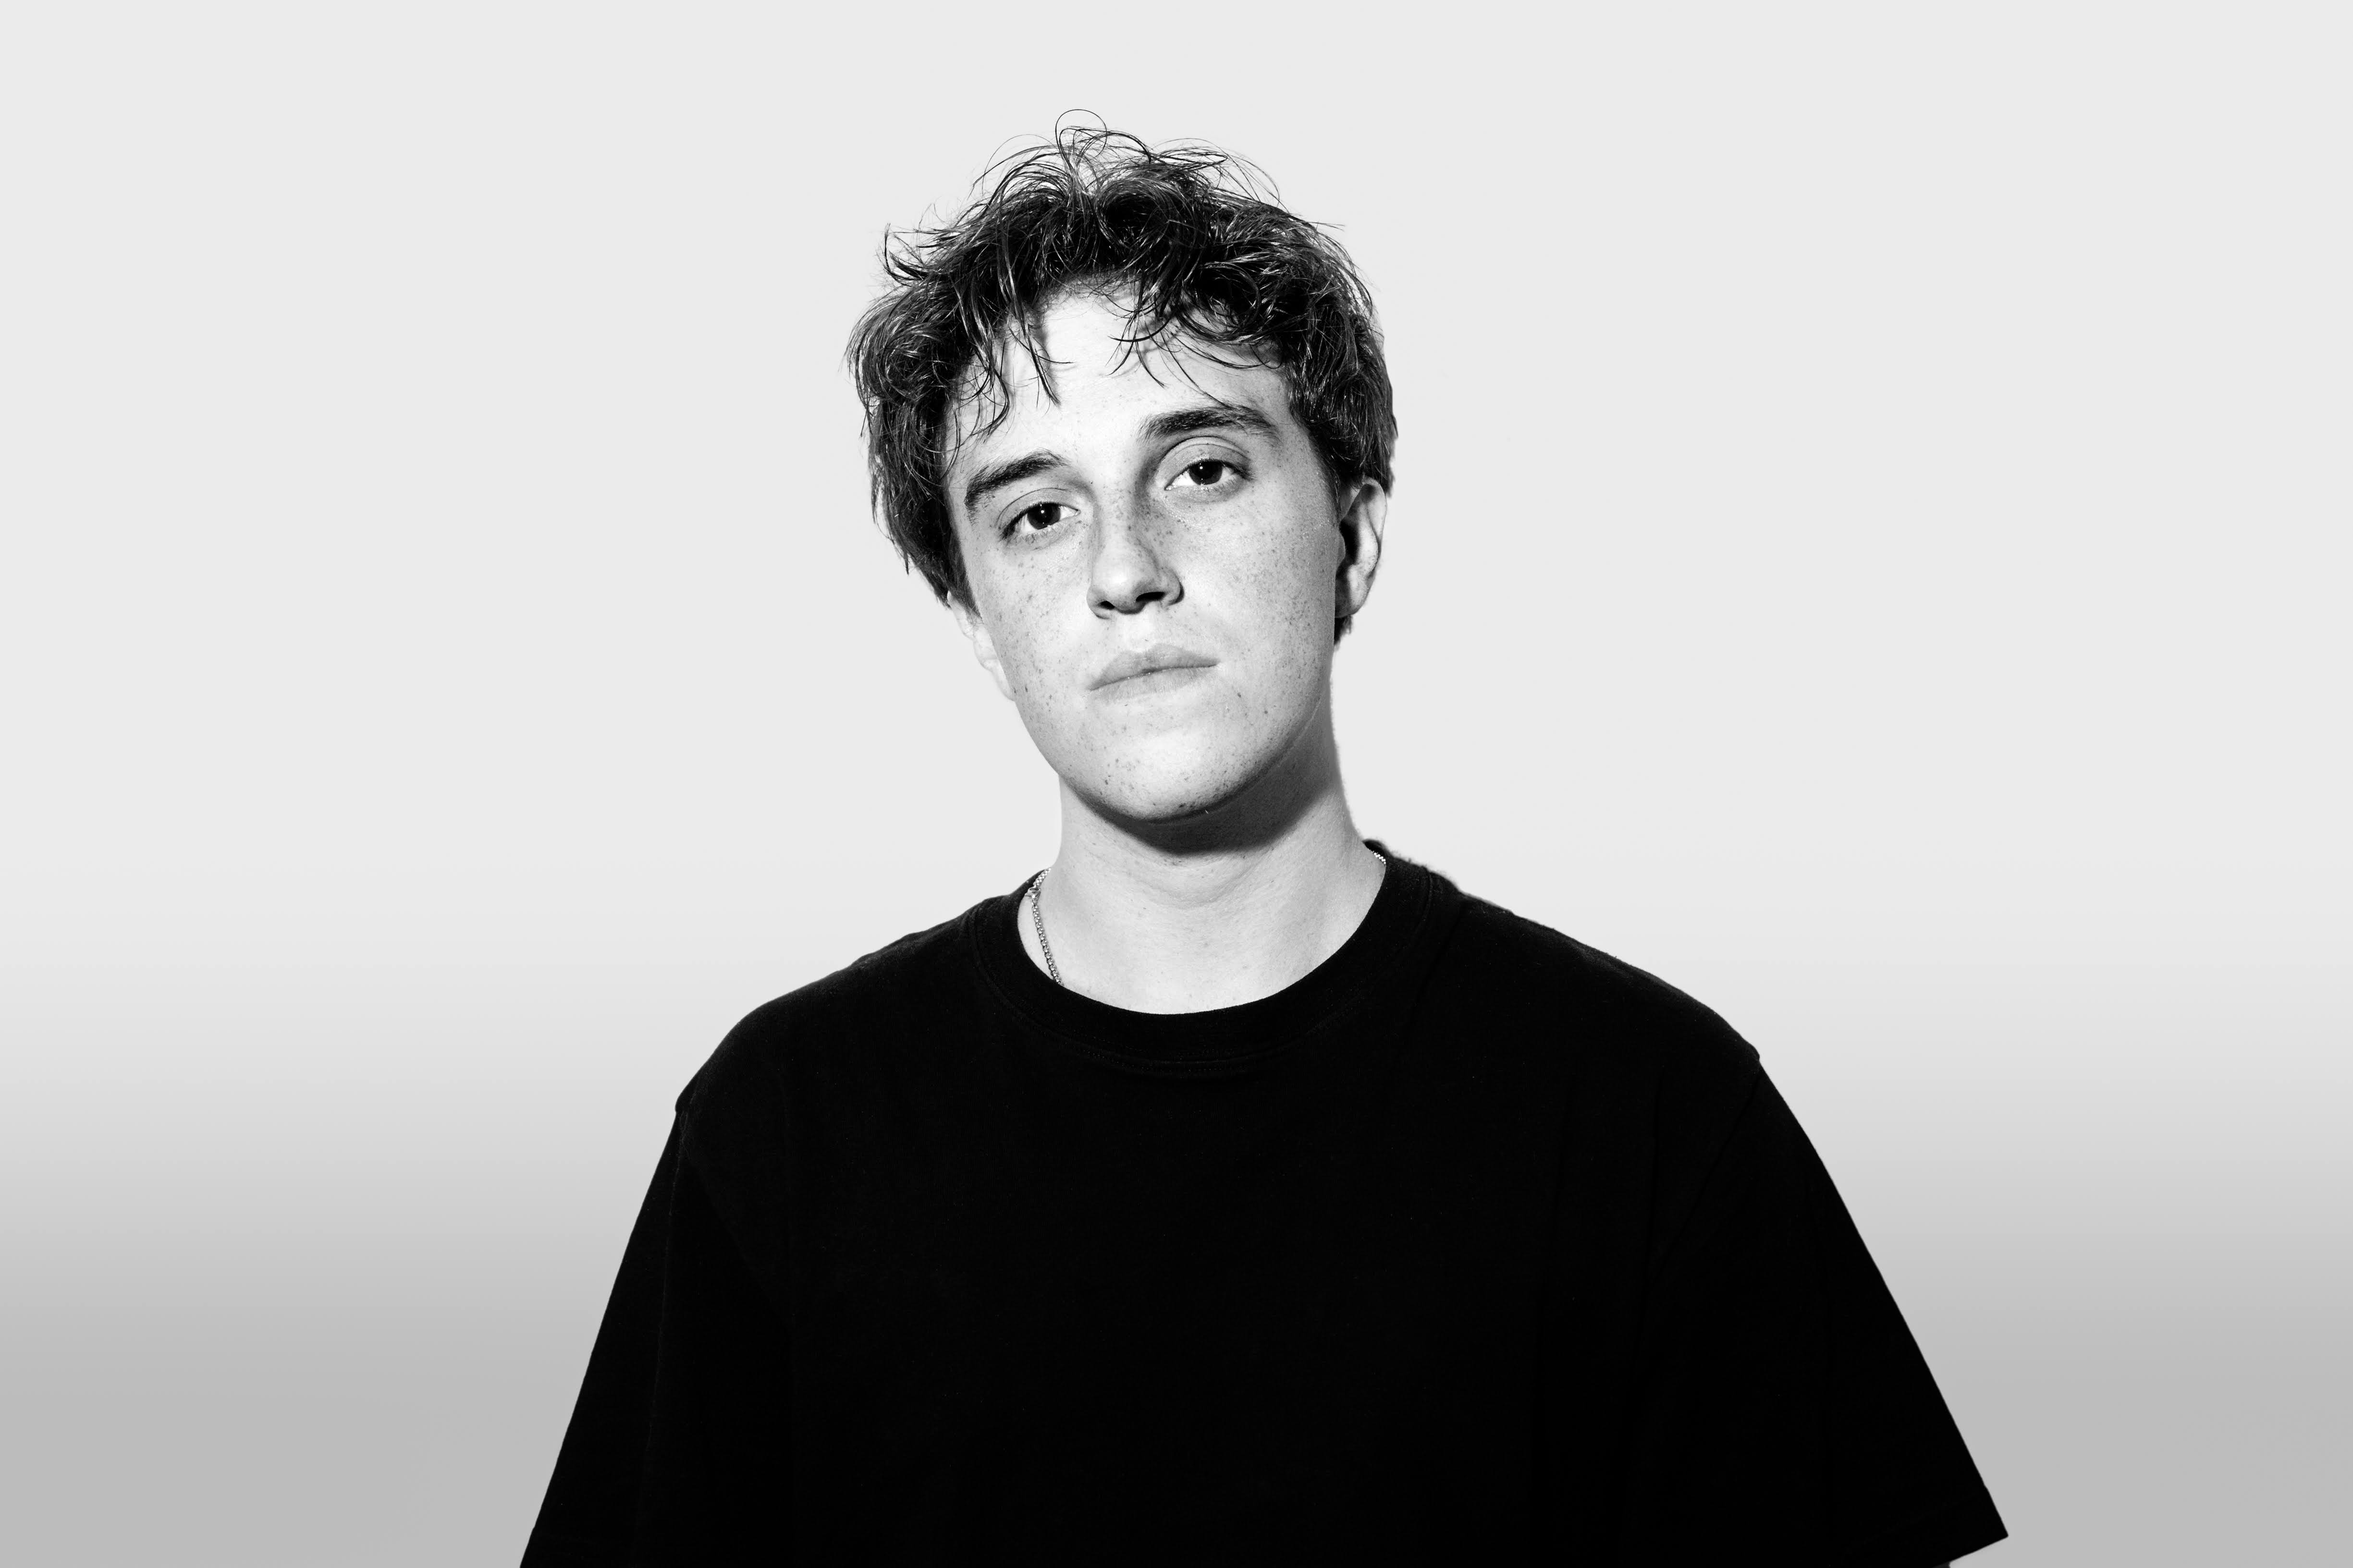
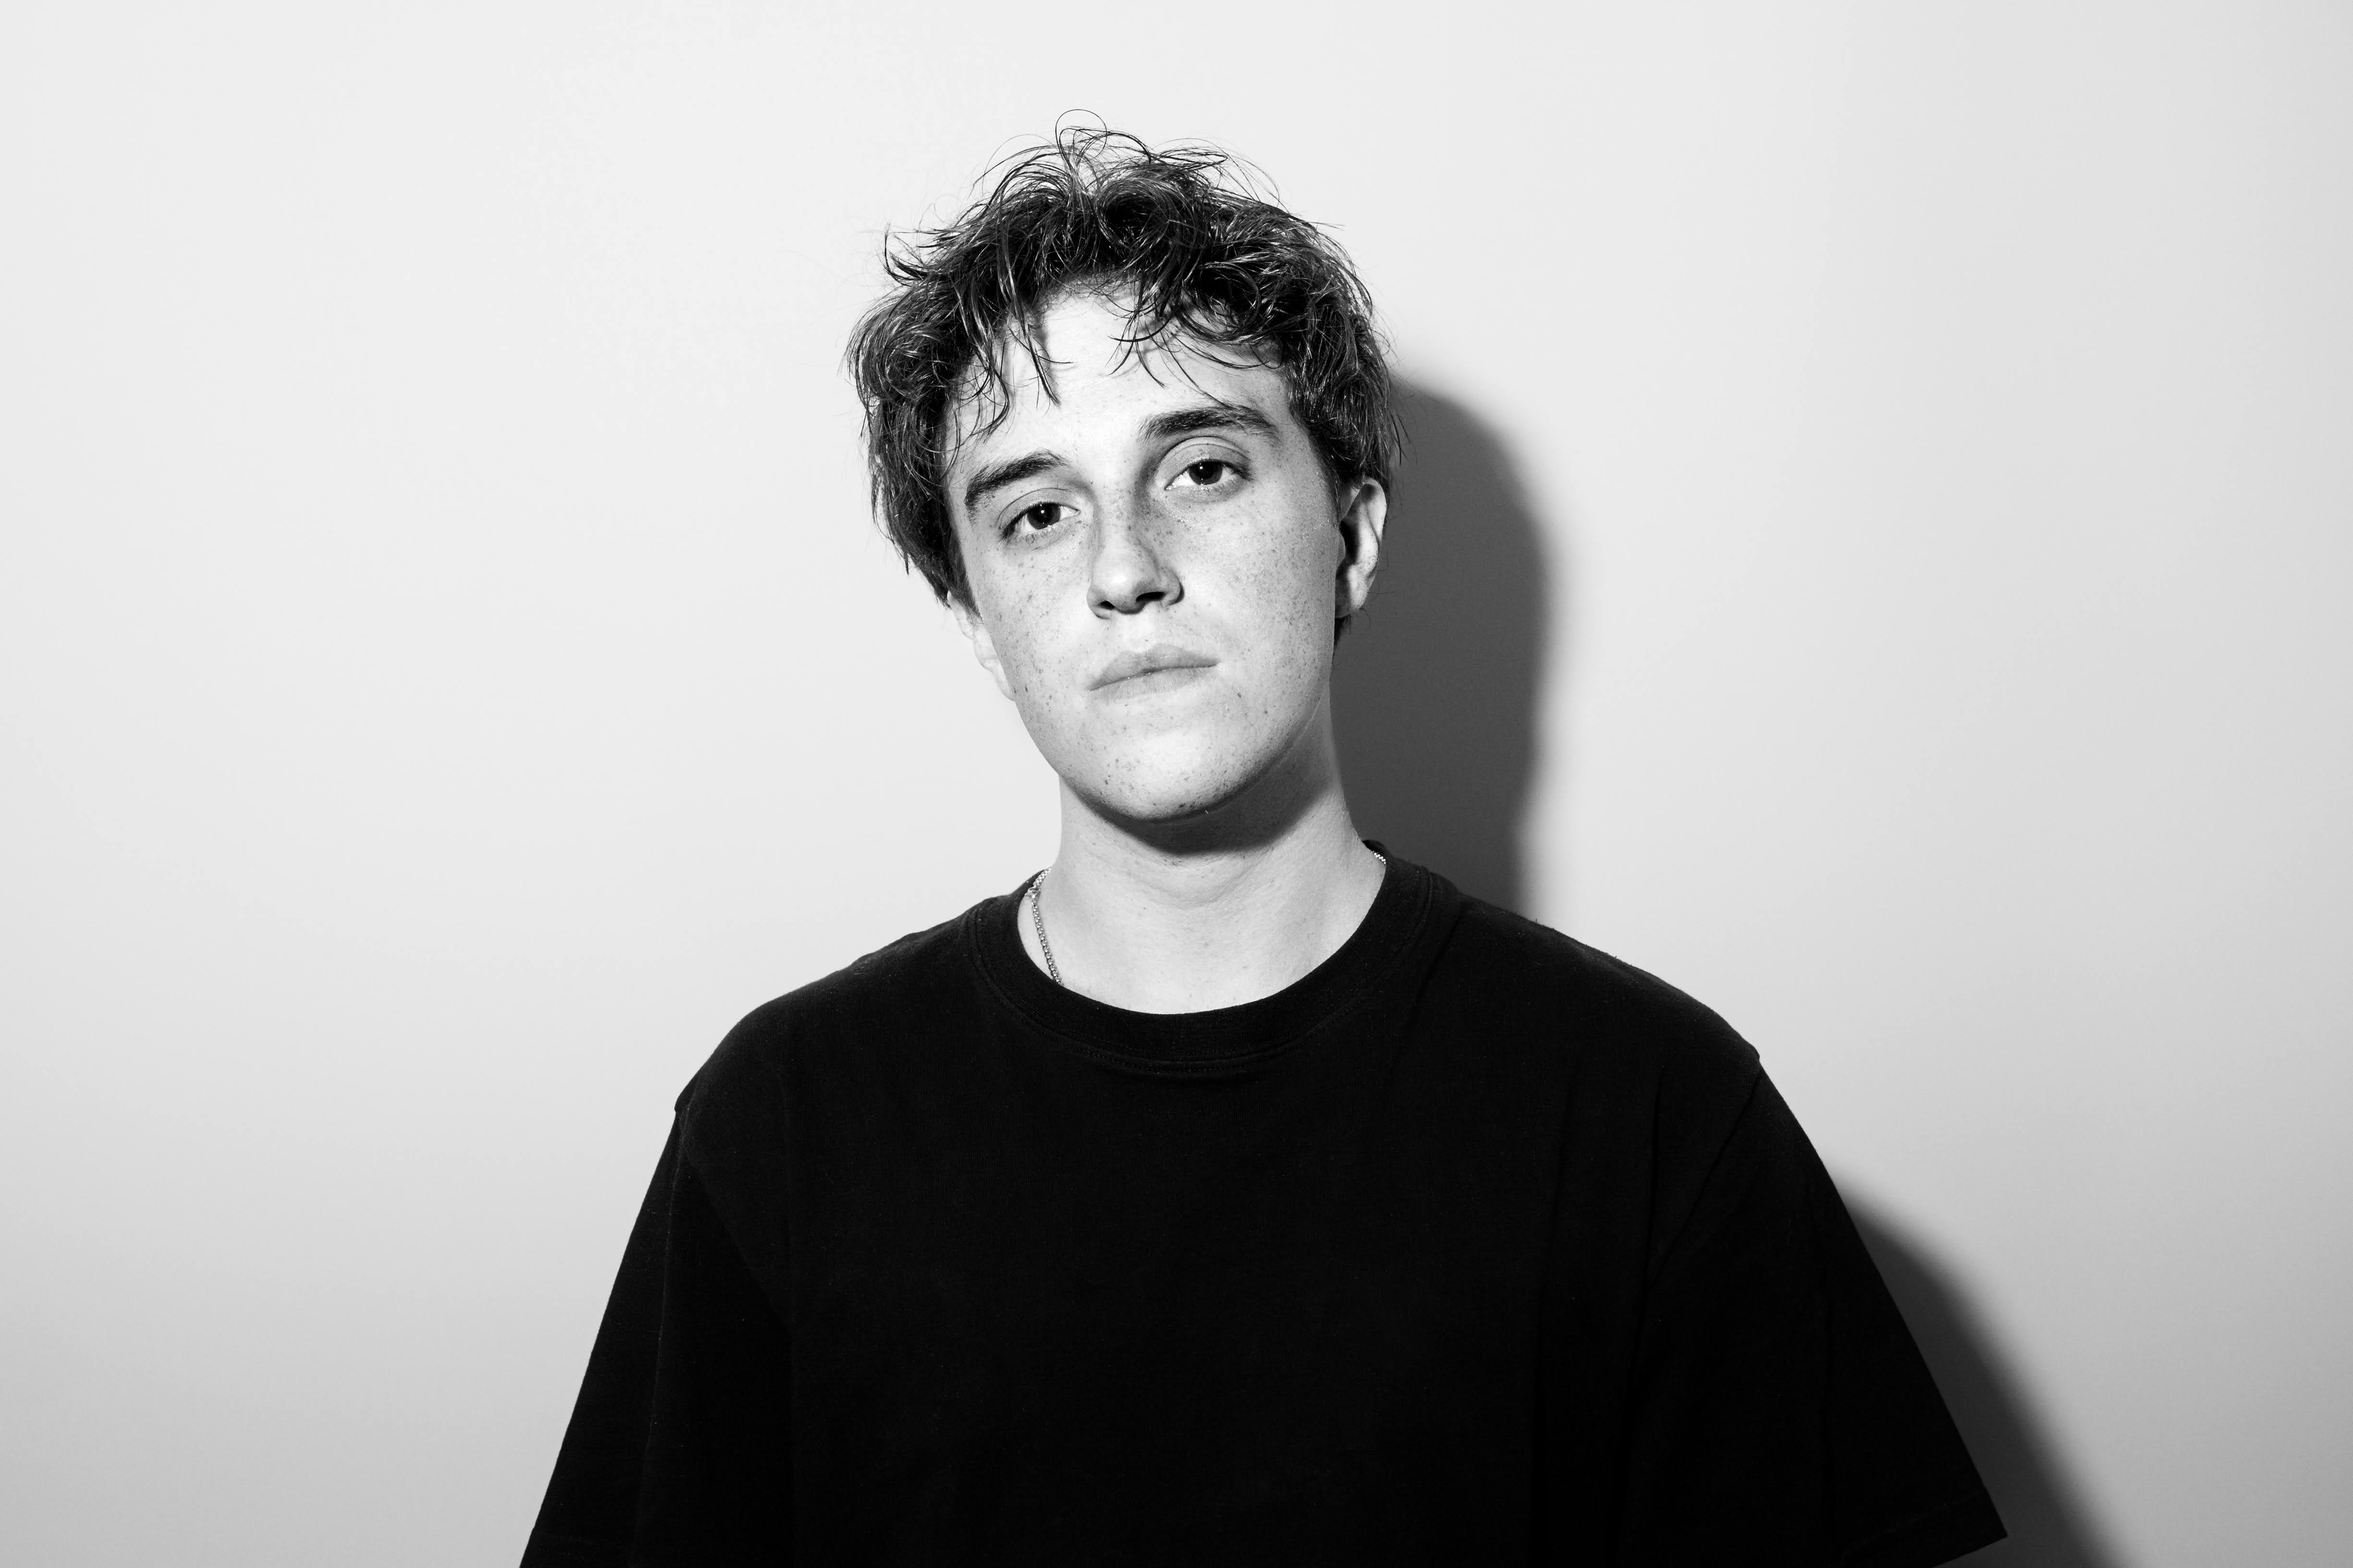
update-pics

Changed region(s): [[0.5623, 0.2187, 0.6872, 0.5936], [0.7809, 0.7498, 1.0, 1.0], [0.9684, 0.5311, 1.0, 0.6873]]

diff --git a/photos/index.html b/photos/index.html
@@ -50,11 +50,11 @@
           <figcaption>© Lorenzo Chiacchieroni</figcaption>
         </figure>
         <figure class="work-card">
-          <img src="../assets/graphics/photo-LC-3-bw.jpg" alt="Portrait 3" loading="lazy" data-enlargeable>
+          <img src="../assets/graphics/photo-LC-7.jpg" alt="Portrait 3" loading="lazy" data-enlargeable>
           <figcaption>© Lorenzo Chiacchieroni</figcaption>
         </figure>
         <figure class="work-card">
-          <img src="../assets/graphics/photo-LC-8-bw.jpg" alt="Portrait 8" loading="lazy" data-enlargeable>
+          <img src="../assets/graphics/photo-LC-10-bw.jpg" alt="Portrait 8" loading="lazy" data-enlargeable>
           <figcaption>© Lorenzo Chiacchieroni</figcaption>
         </figure>
         <figure class="work-card">
